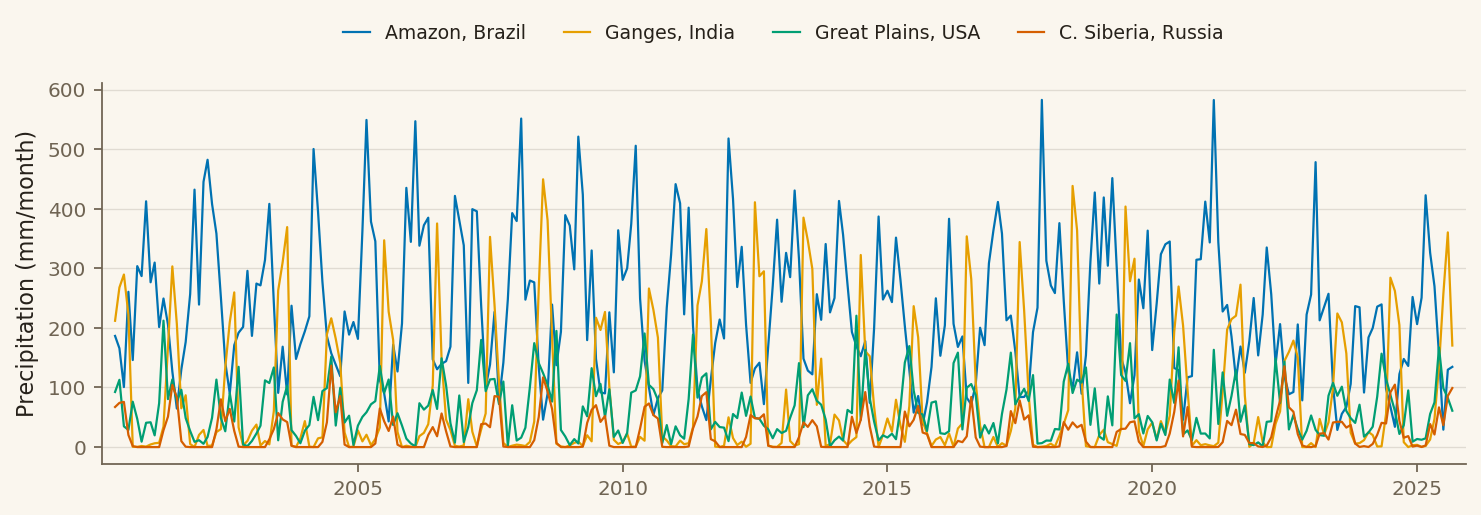
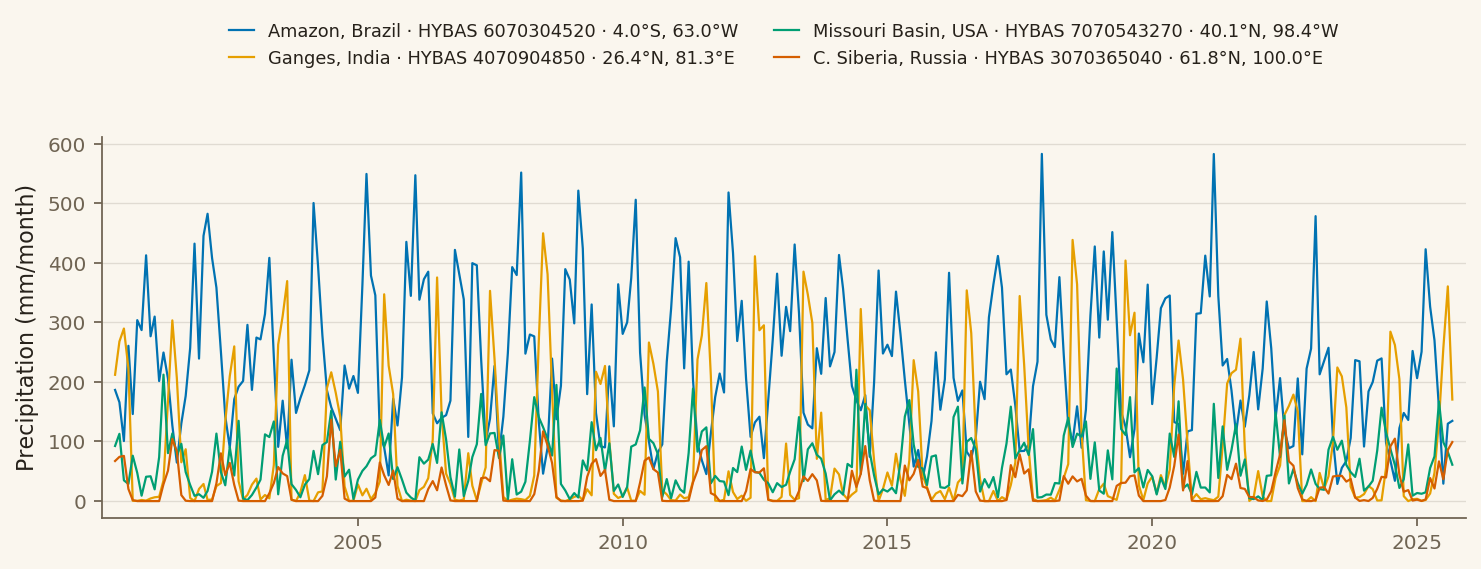
Fix interactive maps (bad Leaflet SRI hash) and label time series with real basin identity
- Remove incorrect integrity/crossorigin on the Leaflet <script>/<link> that
  blocked the library and left maps stuck on "Loading…".
- Time-series legends now show real HYBAS_ID + place name + basin centroid
  coordinates for the four example basins.

diff --git a/demos/hydrobasins-atlas.html b/demos/hydrobasins-atlas.html
@@ -17,10 +17,8 @@
   <link rel="preconnect" href="https://fonts.gstatic.com" crossorigin />
   <link href="https://fonts.googleapis.com/css2?family=Fraunces:opsz,wght@9..144,400;9..144,500;9..144,600;9..144,700&family=Inter:wght@400;500;600;700;800&family=IBM+Plex+Mono:wght@400;500&display=swap" rel="stylesheet" />
   <link rel="stylesheet" href="../styles.css?v=20260706e" />
-  <link rel="stylesheet" href="https://unpkg.com/leaflet@1.9.4/dist/leaflet.css"
-        integrity="sha256-p4NxAoJBhIIN+hmNHrzRCf9tD/miZyoHS5obTRR9BMY=" crossorigin="" />
-  <script defer src="https://unpkg.com/leaflet@1.9.4/dist/leaflet.js"
-          integrity="sha256-20nQCchB9co0qIjJ/2QOr3Sc/QQ4mydB8SzHTv7lTNo=" crossorigin=""></script>
+  <link rel="stylesheet" href="https://unpkg.com/leaflet@1.9.4/dist/leaflet.css" />
+  <script defer src="https://unpkg.com/leaflet@1.9.4/dist/leaflet.js"></script>
   <script defer src="https://cdnjs.cloudflare.com/ajax/libs/chroma-js/2.4.2/chroma.min.js"></script>
   <style>
     .demo-hero { padding-top: 28px; }
@@ -162,7 +160,7 @@
         <figure class="map">
           <img src="../images/demos/hydrobasins/TS_P.png"
                alt="Monthly precipitation time series for four example basins" loading="lazy" decoding="async" />
-          <figcaption>Example monthly time series — four basins in contrasting climates (Amazon · Ganges · Great Plains · Siberia).</figcaption>
+          <figcaption>Example monthly time series — four climate-contrasting basins; real HYBAS IDs and coordinates are shown in the legend.</figcaption>
         </figure>
         <p class="source">
           <strong>Source:</strong> NASA <strong>GPM IMERG Final</strong> daily precipitation (0.1°) —
@@ -192,7 +190,7 @@
         <figure class="map">
           <img src="../images/demos/hydrobasins/TS_T.png"
                alt="Monthly surface temperature time series for four example basins" loading="lazy" decoding="async" />
-          <figcaption>Example monthly time series — four basins in contrasting climates (Amazon · Ganges · Great Plains · Siberia).</figcaption>
+          <figcaption>Example monthly time series — four climate-contrasting basins; real HYBAS IDs and coordinates are shown in the legend.</figcaption>
         </figure>
         <p class="source">
           <strong>Source:</strong> NASA <strong>GLDAS-2.2</strong> Catchment Land Surface Model (CLSM),
@@ -222,7 +220,7 @@
         <figure class="map">
           <img src="../images/demos/hydrobasins/TS_ET.png"
                alt="Monthly evapotranspiration time series for four example basins" loading="lazy" decoding="async" />
-          <figcaption>Example monthly time series — four basins in contrasting climates (Amazon · Ganges · Great Plains · Siberia).</figcaption>
+          <figcaption>Example monthly time series — four climate-contrasting basins; real HYBAS IDs and coordinates are shown in the legend.</figcaption>
         </figure>
         <p class="source">
           <strong>Source:</strong> GLDAS-2.2 CLSM <code>Evap_tavg</code> [kg m⁻² s⁻¹], converted to
@@ -252,7 +250,7 @@
         <figure class="map">
           <img src="../images/demos/hydrobasins/TS_R.png"
                alt="Monthly runoff time series for four example basins" loading="lazy" decoding="async" />
-          <figcaption>Example monthly time series — four basins in contrasting climates (Amazon · Ganges · Great Plains · Siberia).</figcaption>
+          <figcaption>Example monthly time series — four climate-contrasting basins; real HYBAS IDs and coordinates are shown in the legend.</figcaption>
         </figure>
         <p class="source">
           <strong>Source:</strong> GLDAS-2.2 CLSM <code>Qs_tavg</code> (storm surface runoff) +
@@ -281,7 +279,7 @@
         <figure class="map">
           <img src="../images/demos/hydrobasins/TS_G.png"
                alt="Monthly groundwater storage time series for four example basins" loading="lazy" decoding="async" />
-          <figcaption>Example monthly time series — four basins in contrasting climates (Amazon · Ganges · Great Plains · Siberia).</figcaption>
+          <figcaption>Example monthly time series — four climate-contrasting basins; real HYBAS IDs and coordinates are shown in the legend.</figcaption>
         </figure>
         <p class="source">
           <strong>Source:</strong> GLDAS-2.2 CLSM <code>GWS_tavg</code> [mm], area-weighted basin mean.
